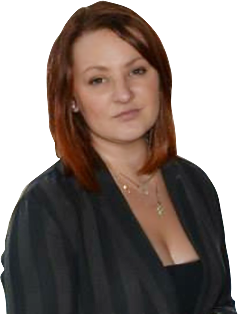
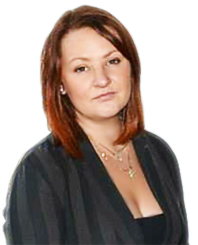
правки на карте, замена фото менеджеров, выравнивание книг

diff --git a/js/common.js b/js/common.js
@@ -262,9 +262,43 @@ function getScroll() {
 
 
 
-function load(){
+function initMap(){
+
+  // text overlay proto
+  function TxtOverlay(pos, txt, cls, map) {
+    this.pos = pos;
+    this.txt_ = txt;
+    this.cls_ = cls;
+    this.map_ = map;
+    this.div_ = null;
+    this.setMap(map);
+  }
+  TxtOverlay.prototype = new google.maps.OverlayView();
+  TxtOverlay.prototype.onAdd = function() {
+    var div = document.createElement('DIV');
+    div.className = this.cls_;
+    div.innerHTML = this.txt_;
+    this.div_ = div;
+    var overlayProjection = this.getProjection();
+    var position = overlayProjection.fromLatLngToDivPixel(this.pos);
+    div.style.left = position.x + 'px';
+    div.style.top = position.y + 'px';
+    var panes = this.getPanes();
+    panes.floatPane.appendChild(div);
+  }
+  TxtOverlay.prototype.draw = function() {
+      var overlayProjection = this.getProjection();
+      var position = overlayProjection.fromLatLngToDivPixel(this.pos);
+      var div = this.div_;
+      div.style.left = position.x + 'px';
+      div.style.top = position.y + 'px';
+      console.log(position)
+  }
+
+  // create map
 
   var point = new google.maps.LatLng(55.774210, 37.520200);
+  var tooltipTemplate = '4-я Магистральная, дом 5, подъезд 2';
 
   var myMapOptions = {
     zoom: 16,
@@ -303,6 +337,7 @@ function load(){
     position: point
   });
 
+  txt = new TxtOverlay(point, tooltipTemplate, "map_label", map)
 }
 
 

diff --git a/map.html b/map.html
@@ -25,7 +25,7 @@
 
   <script src="js/modernizr-custom.js"></script>
 </head>
-<body class="map"  onload="load()">
+<body class="map">
 
   <div class="header">
     <div class="container">
@@ -66,7 +66,7 @@
 
     <div class="right">
 
-      <p>4-я Магистральная, дом 5, подъезд 2</p>
+      <!-- <p>4-я Магистральная, дом 5, подъезд 2</p> -->
 
         <form action="">
           <input type="text" placeholder="Имя">
@@ -128,11 +128,12 @@
  </div>
 </div>
 
-<script async defer src="https://maps.googleapis.com/maps/api/js?key=AIzaSyALbY2ww48MK6fx_Rq6GMu6iGVk6qVr_gY&callback=initMap"></script>
+
 <script src="http://ajax.googleapis.com/ajax/libs/jquery/1.11.1/jquery.min.js"></script>
 <script src="https://code.jquery.com/ui/1.12.1/jquery-ui.js"></script>
 <script src="js/tabs.js"></script>
 <script src="js/jquery.fixer.js"></script>
 <script src="js/common.js"></script>
+<script async defer src="https://maps.googleapis.com/maps/api/js?key=AIzaSyALbY2ww48MK6fx_Rq6GMu6iGVk6qVr_gY&callback=initMap"></script>
 </body>
 </html>

diff --git a/css/custom.css b/css/custom.css
@@ -17,9 +17,5 @@
     position: relative;
 }
 
-/*.backstretch {
-	-webkit-transform:translateZ(1px);
-      -moz-transform:translateZ(1px);
-      -o-transform:translateZ(1px);
-      transform:translateZ(1px);
-}*/
+.map_label {color: #fd4f00; background: rgba(255,255,255,.6); padding: 3px 5px; border-radius: 4px; position: absolute; width: 266px; height: 23px; font-size: 14px; 
+}

diff --git a/sass/style.scss b/sass/style.scss
@@ -2481,6 +2481,7 @@ html .ui-button.ui-state-disabled:active {
 			font-size: 14px;
 			padding: 10px 15px;
 			margin-bottom: 10px;
+			vertical-align: top;
 
 			img {
 				@include box-shadow(5px, 10px, 15px, 0, rgba(33,33,33,0.2));
